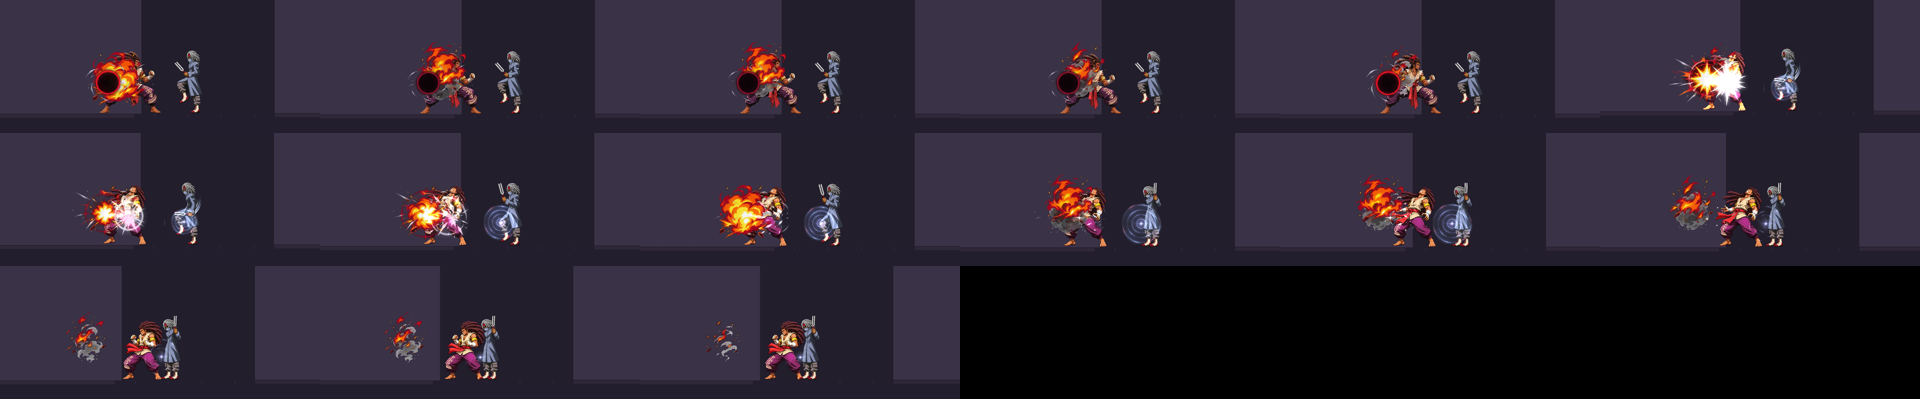
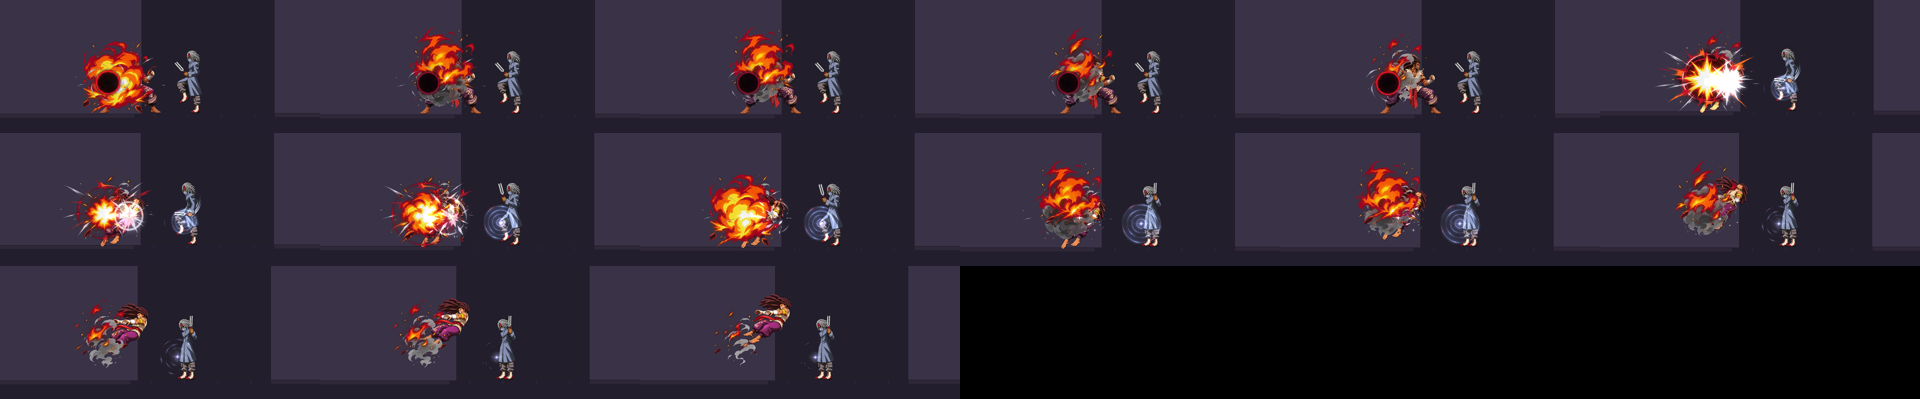
War'Teun: explosion drawn at 0.675 (owner: about 35% bigger than half size)
Includes the owner's box-editor changes to the character file made meanwhile.

Claude-Session: https://claude.ai/code/session_01XDQqBAyT34HEXnArFczUN3

diff --git a/docs/reports/warteun.md b/docs/reports/warteun.md
@@ -185,3 +185,12 @@ budget; the earlier 16.8 was the old light-blended burst), worst single frame 18
   hitbox sits under the arc. A test checks it travels (320 px) and hits low.
 
 `npm test`: 487 of 487. Frame time: 9.1 ms average, 14.5 ms worst 5%, worst single frame 19.6 ms.
+
+## Explosion size raised (Nov 26)
+
+Fire, smoke and ruby ring now drawn at 0.675 (35% bigger than the half size; about two thirds of the original).
+Hitbox and waiting sphere unchanged. `npm test`: 487 of 487.
+
+**Frame time is now just over budget in the worst case.** Six measurements: 9.1 to 9.4 ms average, but the worst
+5% of frames average 17.1 to 17.9 ms (budget 16.7), worst single frame about 20 ms. At half size it was 14.5. This
+is headless Chrome with no graphics card, three vacuums bursting at Resonance 3; the cost is the area of fire drawn.
